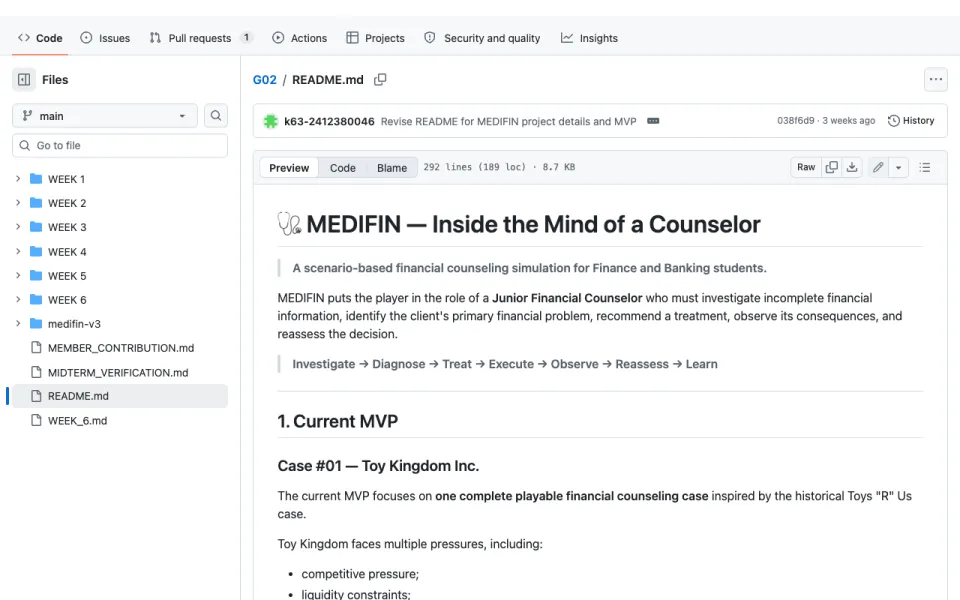
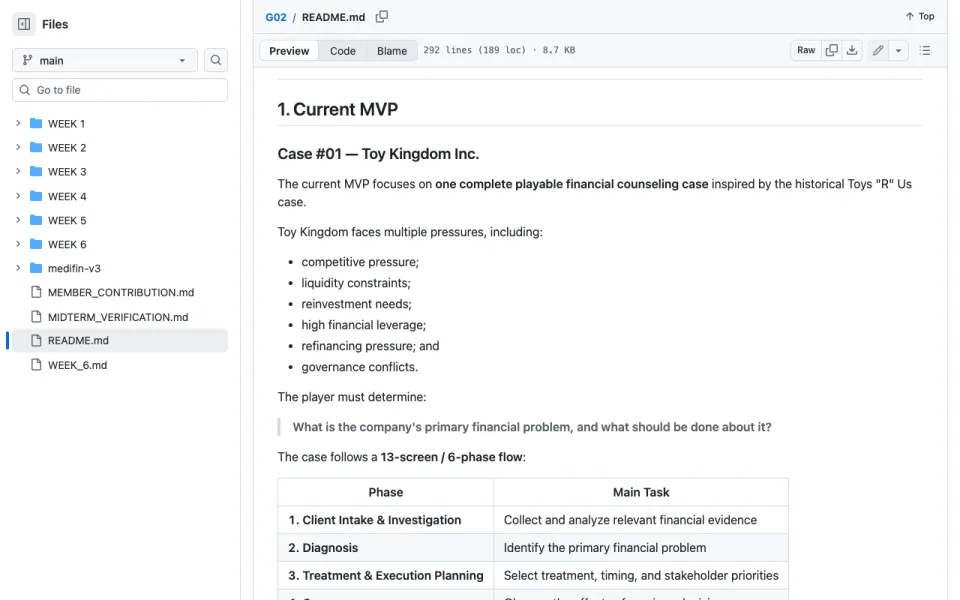
Polish release loading, accessible labels and source screenshots

diff --git a/src/index.html b/src/index.html
@@ -15,15 +15,21 @@
   <link rel="canonical" href="{{URL}}">
   <link rel="icon" href="{{BASE}}assets/favicon.svg" type="image/svg+xml">
   <link rel="preload" href="{{BASE}}assets/fonts/ibm-plex-mono-latin-400-normal.woff2" as="font" type="font/woff2" crossorigin>
+  <link rel="preload" href="{{BASE}}assets/fonts/ibm-plex-mono-latin-500-normal.woff2" as="font" type="font/woff2" crossorigin>
+  <link rel="preload" href="{{BASE}}assets/fonts/ibm-plex-mono-vietnamese-500-normal.woff2" as="font" type="font/woff2" crossorigin>
+  <link rel="preload" href="{{BASE}}assets/fonts/ibm-plex-mono-latin-ext-500-normal.woff2" as="font" type="font/woff2" crossorigin>
   <link rel="stylesheet" href="{{BASE}}assets/fonts/fonts.css">
   <link rel="stylesheet" href="{{BASE}}styles.css">
+  <link rel="modulepreload" href="{{BASE}}catalog.mjs">
+  <link rel="preload" href="{{BASE}}products.json" as="fetch" crossorigin>
+  <link rel="preload" href="{{BASE}}site.config.json" as="fetch" crossorigin>
   <title>{{TITLE}}</title>
   <script type="module" src="{{BASE}}app.mjs"></script>
 </head>
 <body data-product="{{PRODUCT}}" data-base="{{BASE}}">
   <a class="skip-link" href="#main">Đến nội dung chính</a>
   <header class="site-header container">
-    <a class="brand" href="{{BASE}}index.html" aria-label="FTU Legacy K63, trang chủ"><span class="brand-icon">63</span><span>FTU LEGACY <small>K63 / NHA408E</small></span></a>
+    <a class="brand" href="{{BASE}}index.html"><span class="brand-icon">63</span><span>FTU LEGACY <small>K63 / NHA408E</small></span></a>
     <nav aria-label="Điều hướng chính">
       <a href="{{BASE}}index.html#du-an">Dự án</a>
       <a href="{{BASE}}index.html#san-pham">Sản phẩm</a>

diff --git a/src/styles.css b/src/styles.css
@@ -20,3 +20,4 @@
 @media(max-width:760px){.about-grid{grid-template-columns:1fr}.about-card{min-height:0}.about{background:linear-gradient(180deg,#cfe6f8 0%,#a1c8f6 28%,#1a4fd0 52%,#0a1f66 80%,#03060f 100%)}}
 @media(prefers-reduced-transparency:reduce){.glass{background:#15316a}.detail-menu{background:#061235;backdrop-filter:none;-webkit-backdrop-filter:none}}
 .feature-title{display:flex;align-items:center;justify-content:space-between;gap:16px;font-size:16px;font-weight:600}.feature-description{display:block;color:#dbe9ff;font-size:12px;margin-top:14px}.feature-description[hidden]{display:none}
+#app[aria-busy=true]>.loading{min-height:100svh}

diff --git a/README.md b/README.md
@@ -43,6 +43,8 @@ GitHub Pages dùng GitHub Actions, không dùng nhánh `gh-pages`. Workflow `.gi
 
 Các URL `/san-pham/g01/` đến `/san-pham/g10/` có HTML riêng để mở trực tiếp, refresh và chia sẻ. Nội dung chi tiết được nạp từ JSON chung, cần JavaScript. Thư mục `research`, `setup`, source và dependency không nằm trong artifact website.
 
+Sau khi workflow deploy thành công, chạy `npm run verify-live` để kiểm tra HTTP và SHA-256 của toàn bộ file công khai so với bản build local. Lệnh chỉ đọc, không tạo tài nguyên hoặc gửi góp ý; kiểm tra này không thay thế việc thử giao diện trong trình duyệt.
+
 ## Nguồn và giới hạn
 
 - Thiết kế dựa trên handoff `TrangChu.dc.html`, `ChiTietSanPham.dc.html` và hướng dẫn art director của K63; tham khảo cấu trúc showcase [K62](https://ftu-legacy-62.github.io/hub/).
